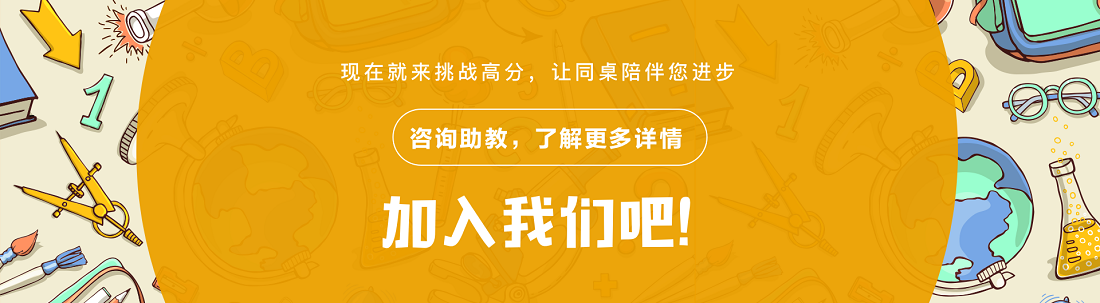
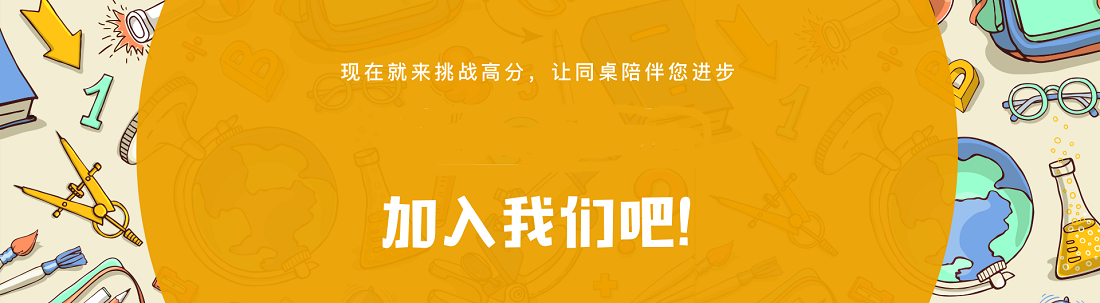
雅思作文底部大图转按钮为文字

Changed region(s): [[0.3709, 0.4158, 0.6182, 0.505], [0.3709, 0.3564, 0.6491, 0.3861], [0.3709, 0.5347, 0.6182, 0.5644]]

diff --git a/o/css/style.css b/o/css/style.css
@@ -3352,3 +3352,47 @@ p.offset-top{
     font-weight: bolder;
     width: 15%;
 }
+
+.zz-i{
+	width: 100%;
+	position: absolute;
+	text-align: center;
+	top: 36%;
+}
+
+
+.click-link-btny {
+	display: inline-block;
+	vertical-align: middle;
+    font-size: 26px;
+    width: 328px;
+    text-align: center;
+    font-weight: bolder;
+    height: 70px;
+    line-height:70px;
+    border:2px solid white;
+    color: white;
+    border-radius: 35px;
+    cursor: pointer;
+}
+
+.uu-i{
+	width: 100%;
+	position: absolute;
+	text-align: center;
+	top: 53%;
+}
+.click-link-btnyu {
+	display: inline-block;
+	vertical-align: middle;    
+    font-size: 26px;
+    width: 242px;
+    text-align: center;
+    font-weight: bolder;
+    height: 70px;
+    line-height:70px;
+    border:2px solid white;
+    color: white;
+    border-radius: 35px;
+    cursor: pointer;
+}

diff --git a/o/雅思作文-作文批改.html b/o/雅思作文-作文批改.html
@@ -407,7 +407,9 @@
             </div>
             <div class="enter enterUs">
                 <img src="./imgs/enter.png">
-                <a href="#" class="enterUs-button"></a>
+                <div class="zz-i">
+                    <div class="click-link-btny">咨询助教，了解更多详情</div>
+                </div>
             </div>
         </div>
 

diff --git a/o/雅思作文-批改范例.html b/o/雅思作文-批改范例.html
@@ -365,7 +365,9 @@
             </div>
             <div class="enter enterUs">
                 <img src="./imgs/enter2.png">
-                <a href="#" class="enterUs-button"></a>
+                <div class="uu-i">
+                    <div class="click-link-btnyu">立即注册</div>
+                </div>
             </div>
         </div>
 
